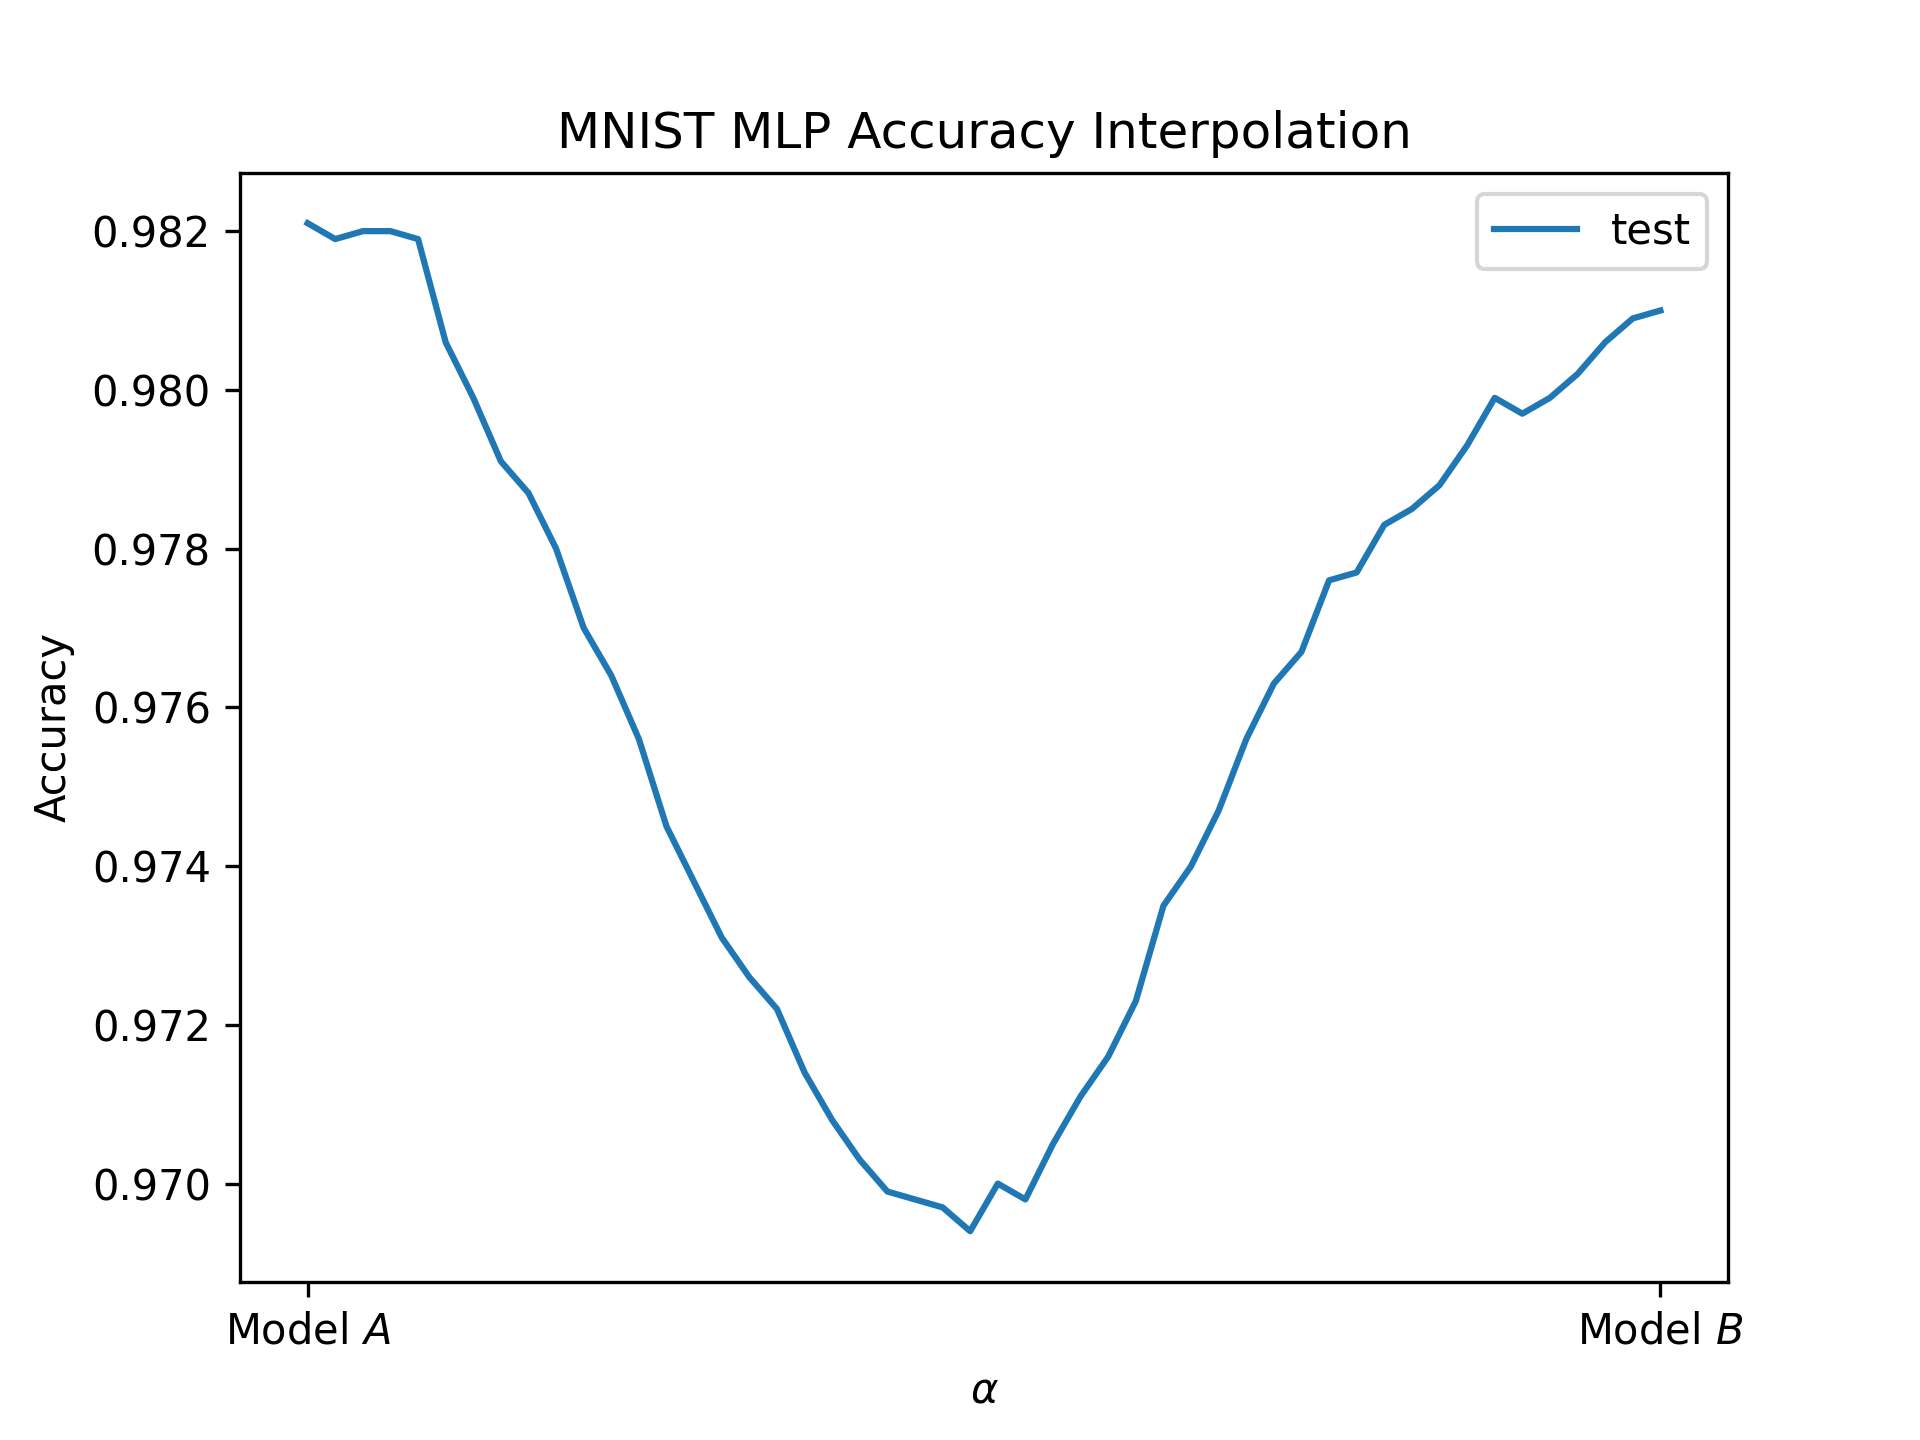
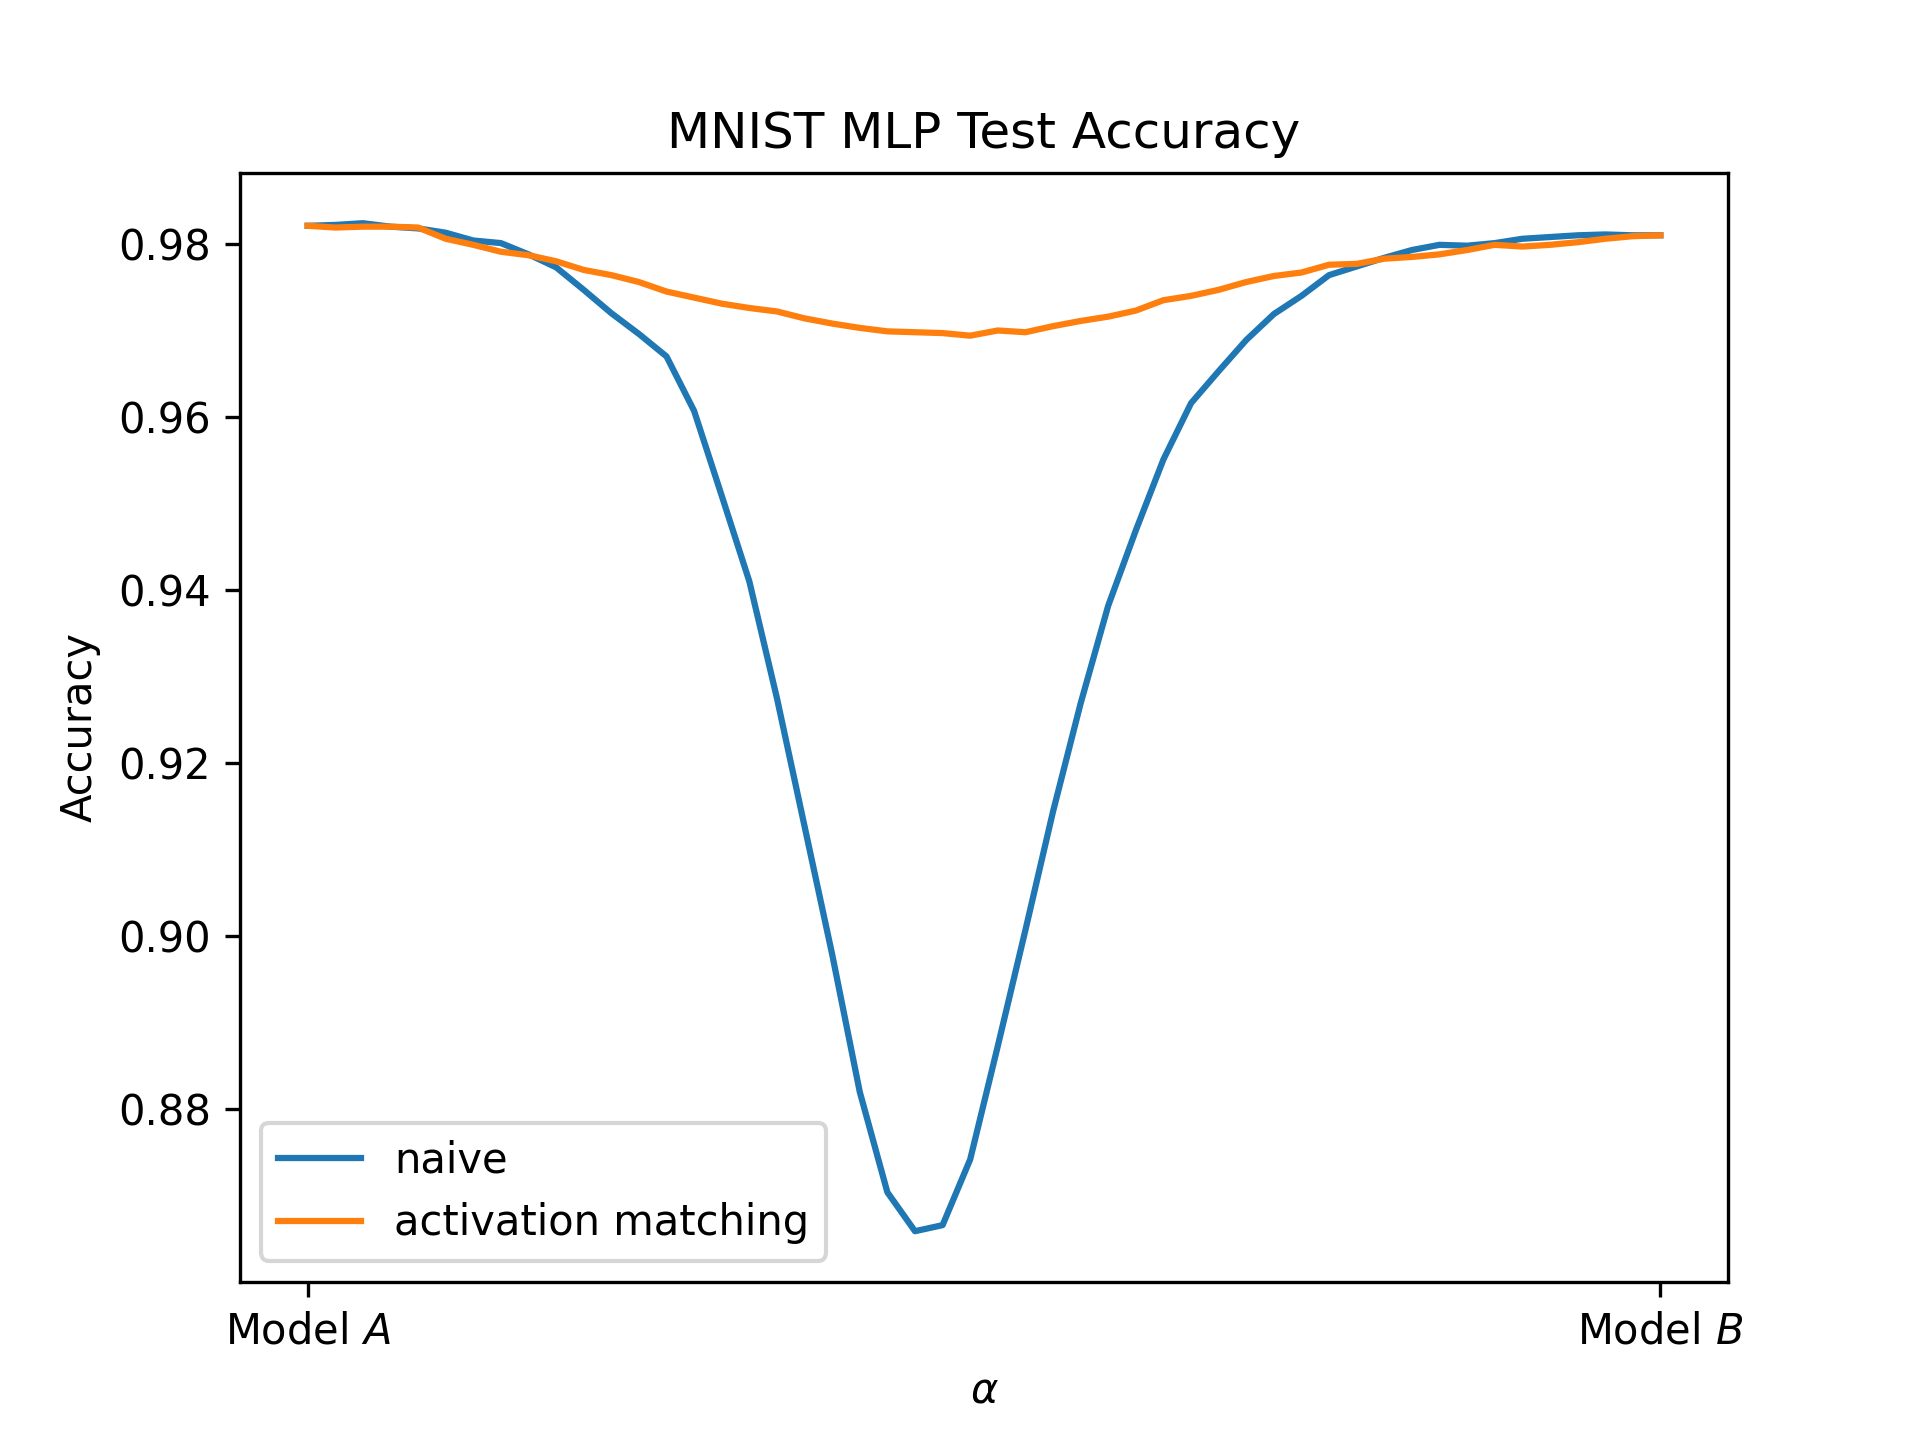
add activation matching plot

diff --git a/activation_matching.py b/activation_matching.py
@@ -89,31 +89,39 @@ def main():
         preds = jnp.argmax(logits, axis=-1)
         return jnp.mean(preds == batch.labels)
 
-    alpha_test_accs = []
-    alphas = jnp.linspace(0, 1, 50)
     test_dataloader = get_mnist_dataloader(batch_size=1_000, train=False)
 
-    # Evaluate model while interpolating between params_a and params_b
-    for alpha in tqdm(alphas):
-        params = lerp_params(alpha, params_a, permuted_params)
+    alpha_naive_accs = []
+    alpha_perm_accs = []
+    alphas = jnp.linspace(0, 1, 50)
 
-        test_accs = []
+    # Evaluate model on naive and matched permutations
+    for alpha in tqdm(alphas):
+        naive_params = lerp_params(alpha, params_a, params_b)
+        perm_params = lerp_params(alpha, params_a, permuted_params)
+
+        naive_accs = []
+        perm_accs = []
         for images, labels in test_dataloader:
             mnist_batch = MNISTBatch(np.array(images), np.array(labels))
-            test_acc = evaluate(params, mnist_batch)
-            test_accs.append(test_acc)
 
-        alpha_test_accs.append(np.mean(test_accs))
+            naive_accs.append(evaluate(naive_params, mnist_batch))
+            perm_accs.append(evaluate(perm_params, mnist_batch))
 
+        alpha_naive_accs.append(np.mean(naive_accs))
+        alpha_perm_accs.append(np.mean(perm_accs))
+
+    # Plot accuracies
     fig = plt.figure()
     ax = fig.add_subplot(111)
-    ax.plot(alphas, alpha_test_accs, label='test')
+    ax.plot(alphas, alpha_naive_accs, label='naive')
+    ax.plot(alphas, alpha_perm_accs, label='activation matching')
     ax.set_ylabel('Accuracy')
     ax.set_xlabel('$\\alpha$')
     ax.set_xticks([0, 1])
     ax.set_xticklabels(['Model $A$', 'Model $B$'])
     ax.legend()
-    ax.set_title("MNIST MLP Accuracy Interpolation")
+    ax.set_title("MNIST MLP Test Accuracy")
 
     plt.savefig('graphs/interpolate_mlp_activations.png', dpi=300)
 
